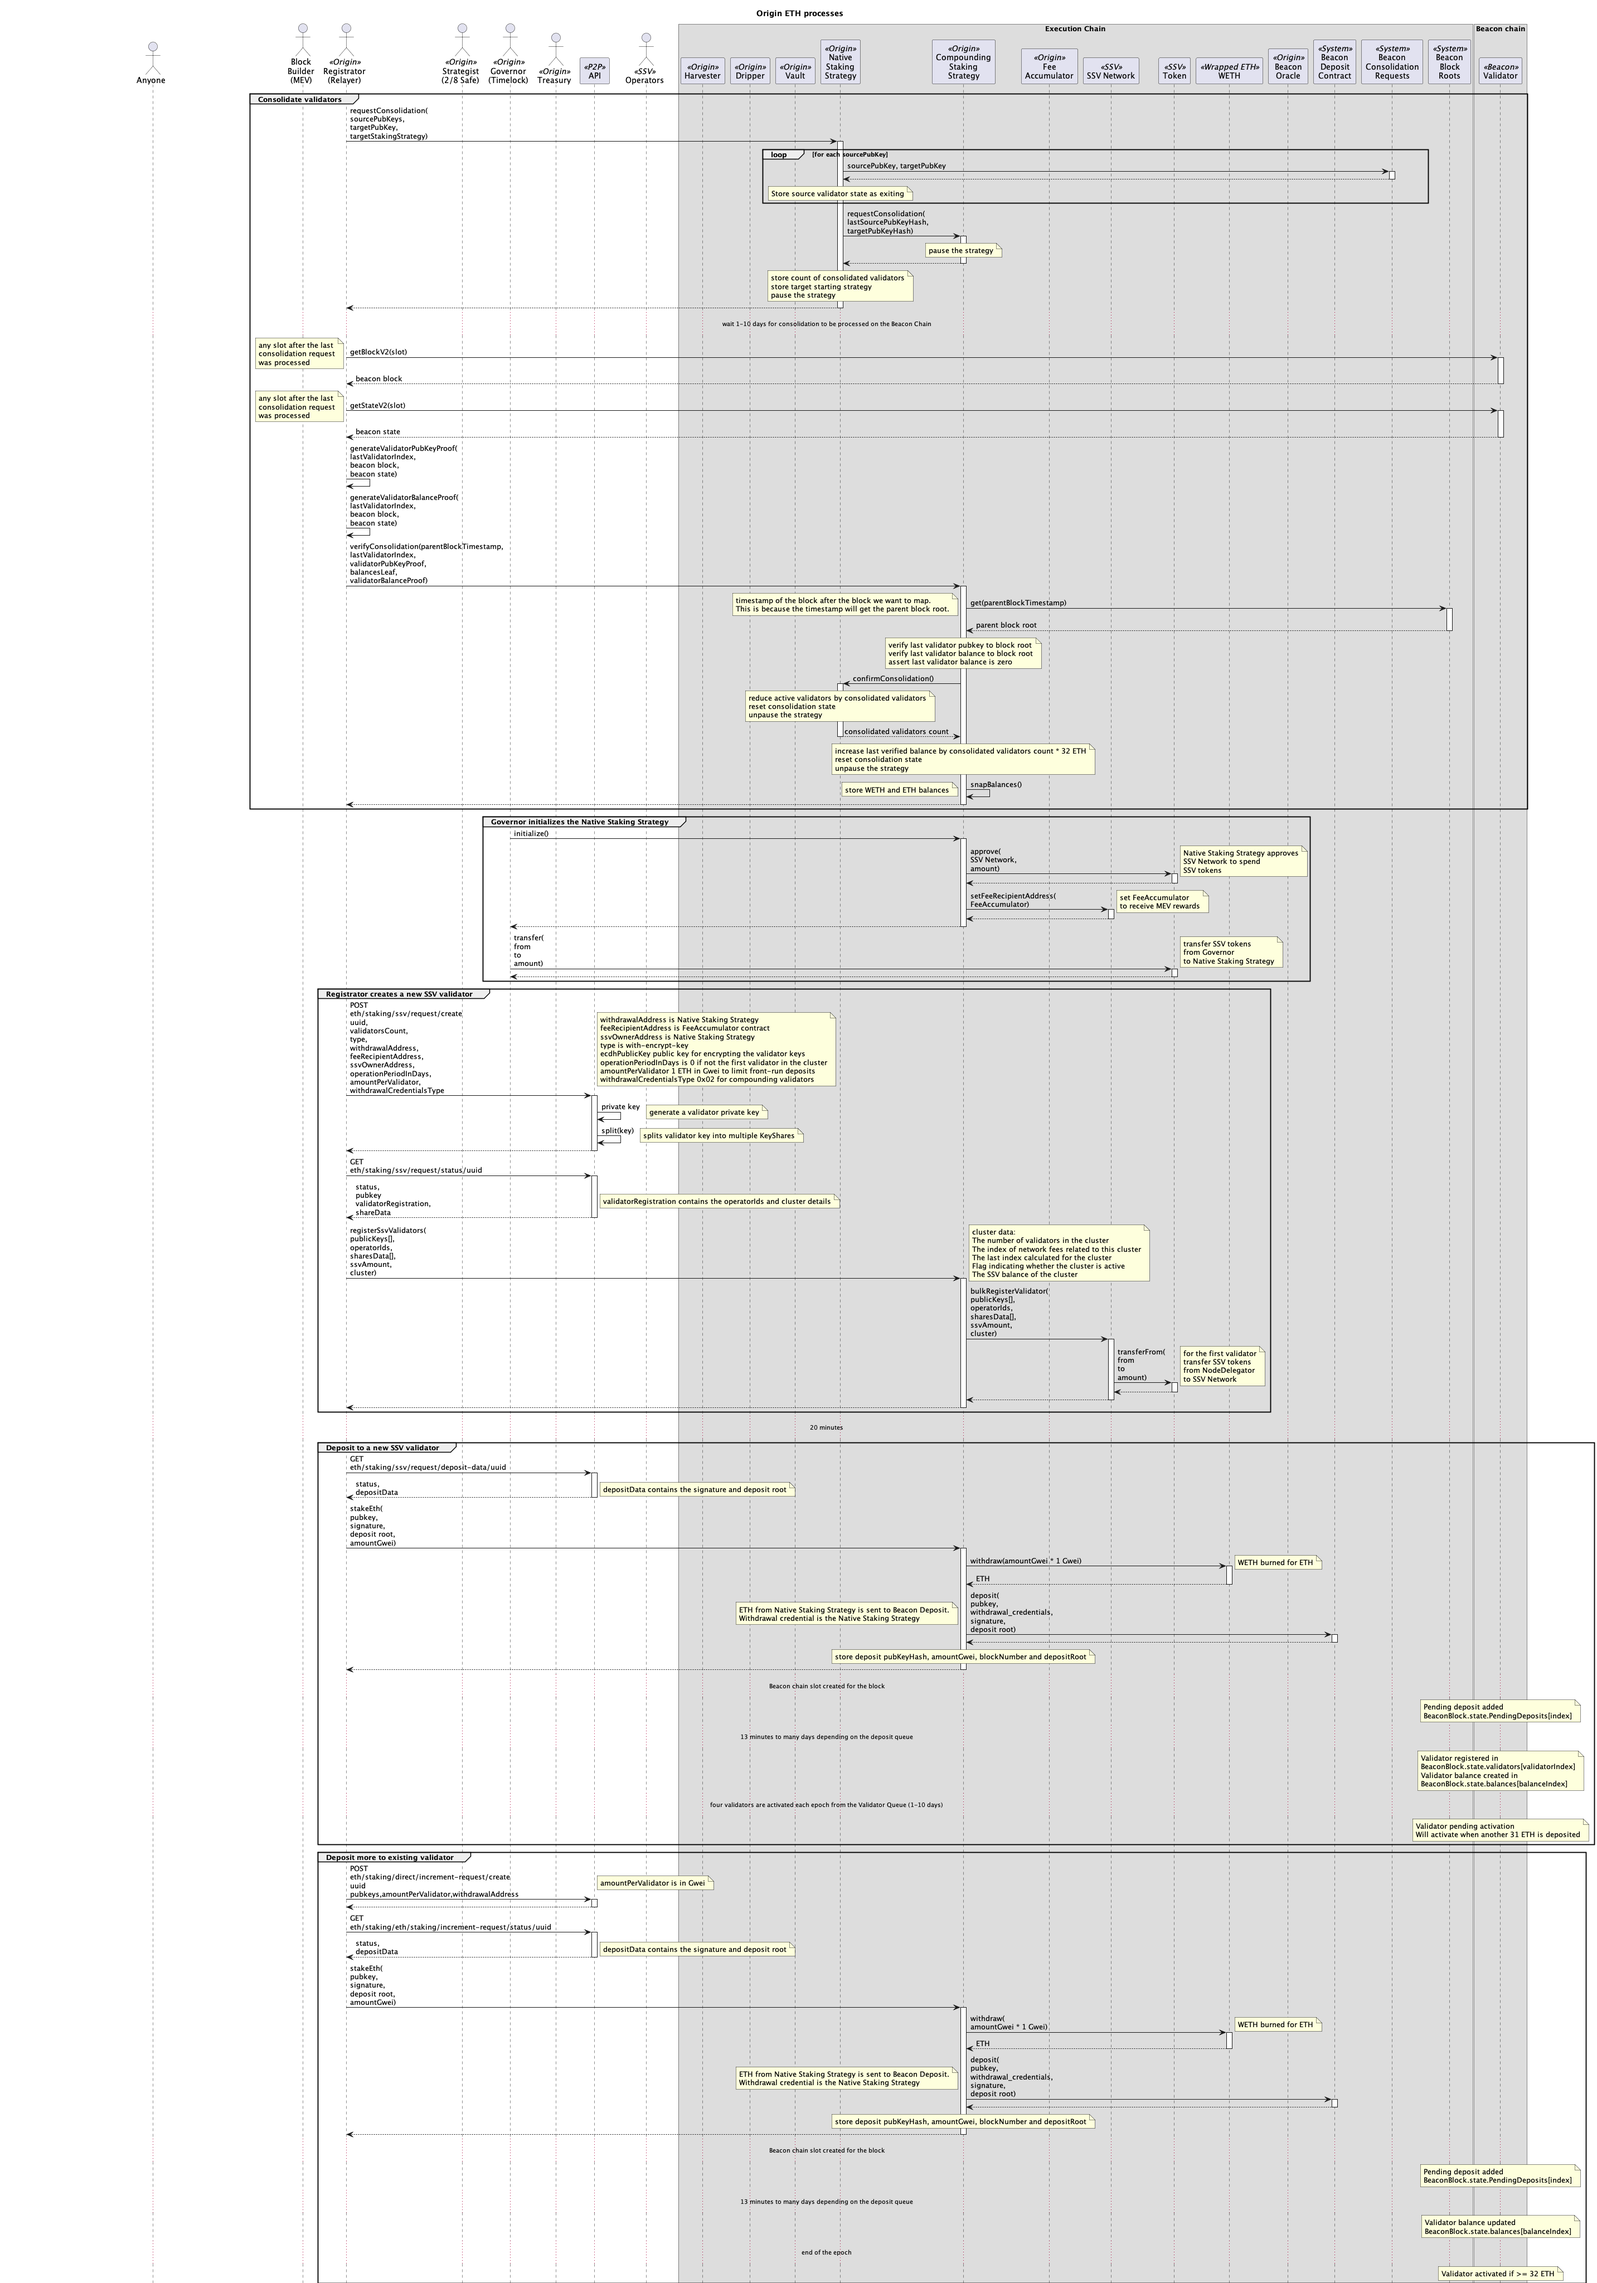
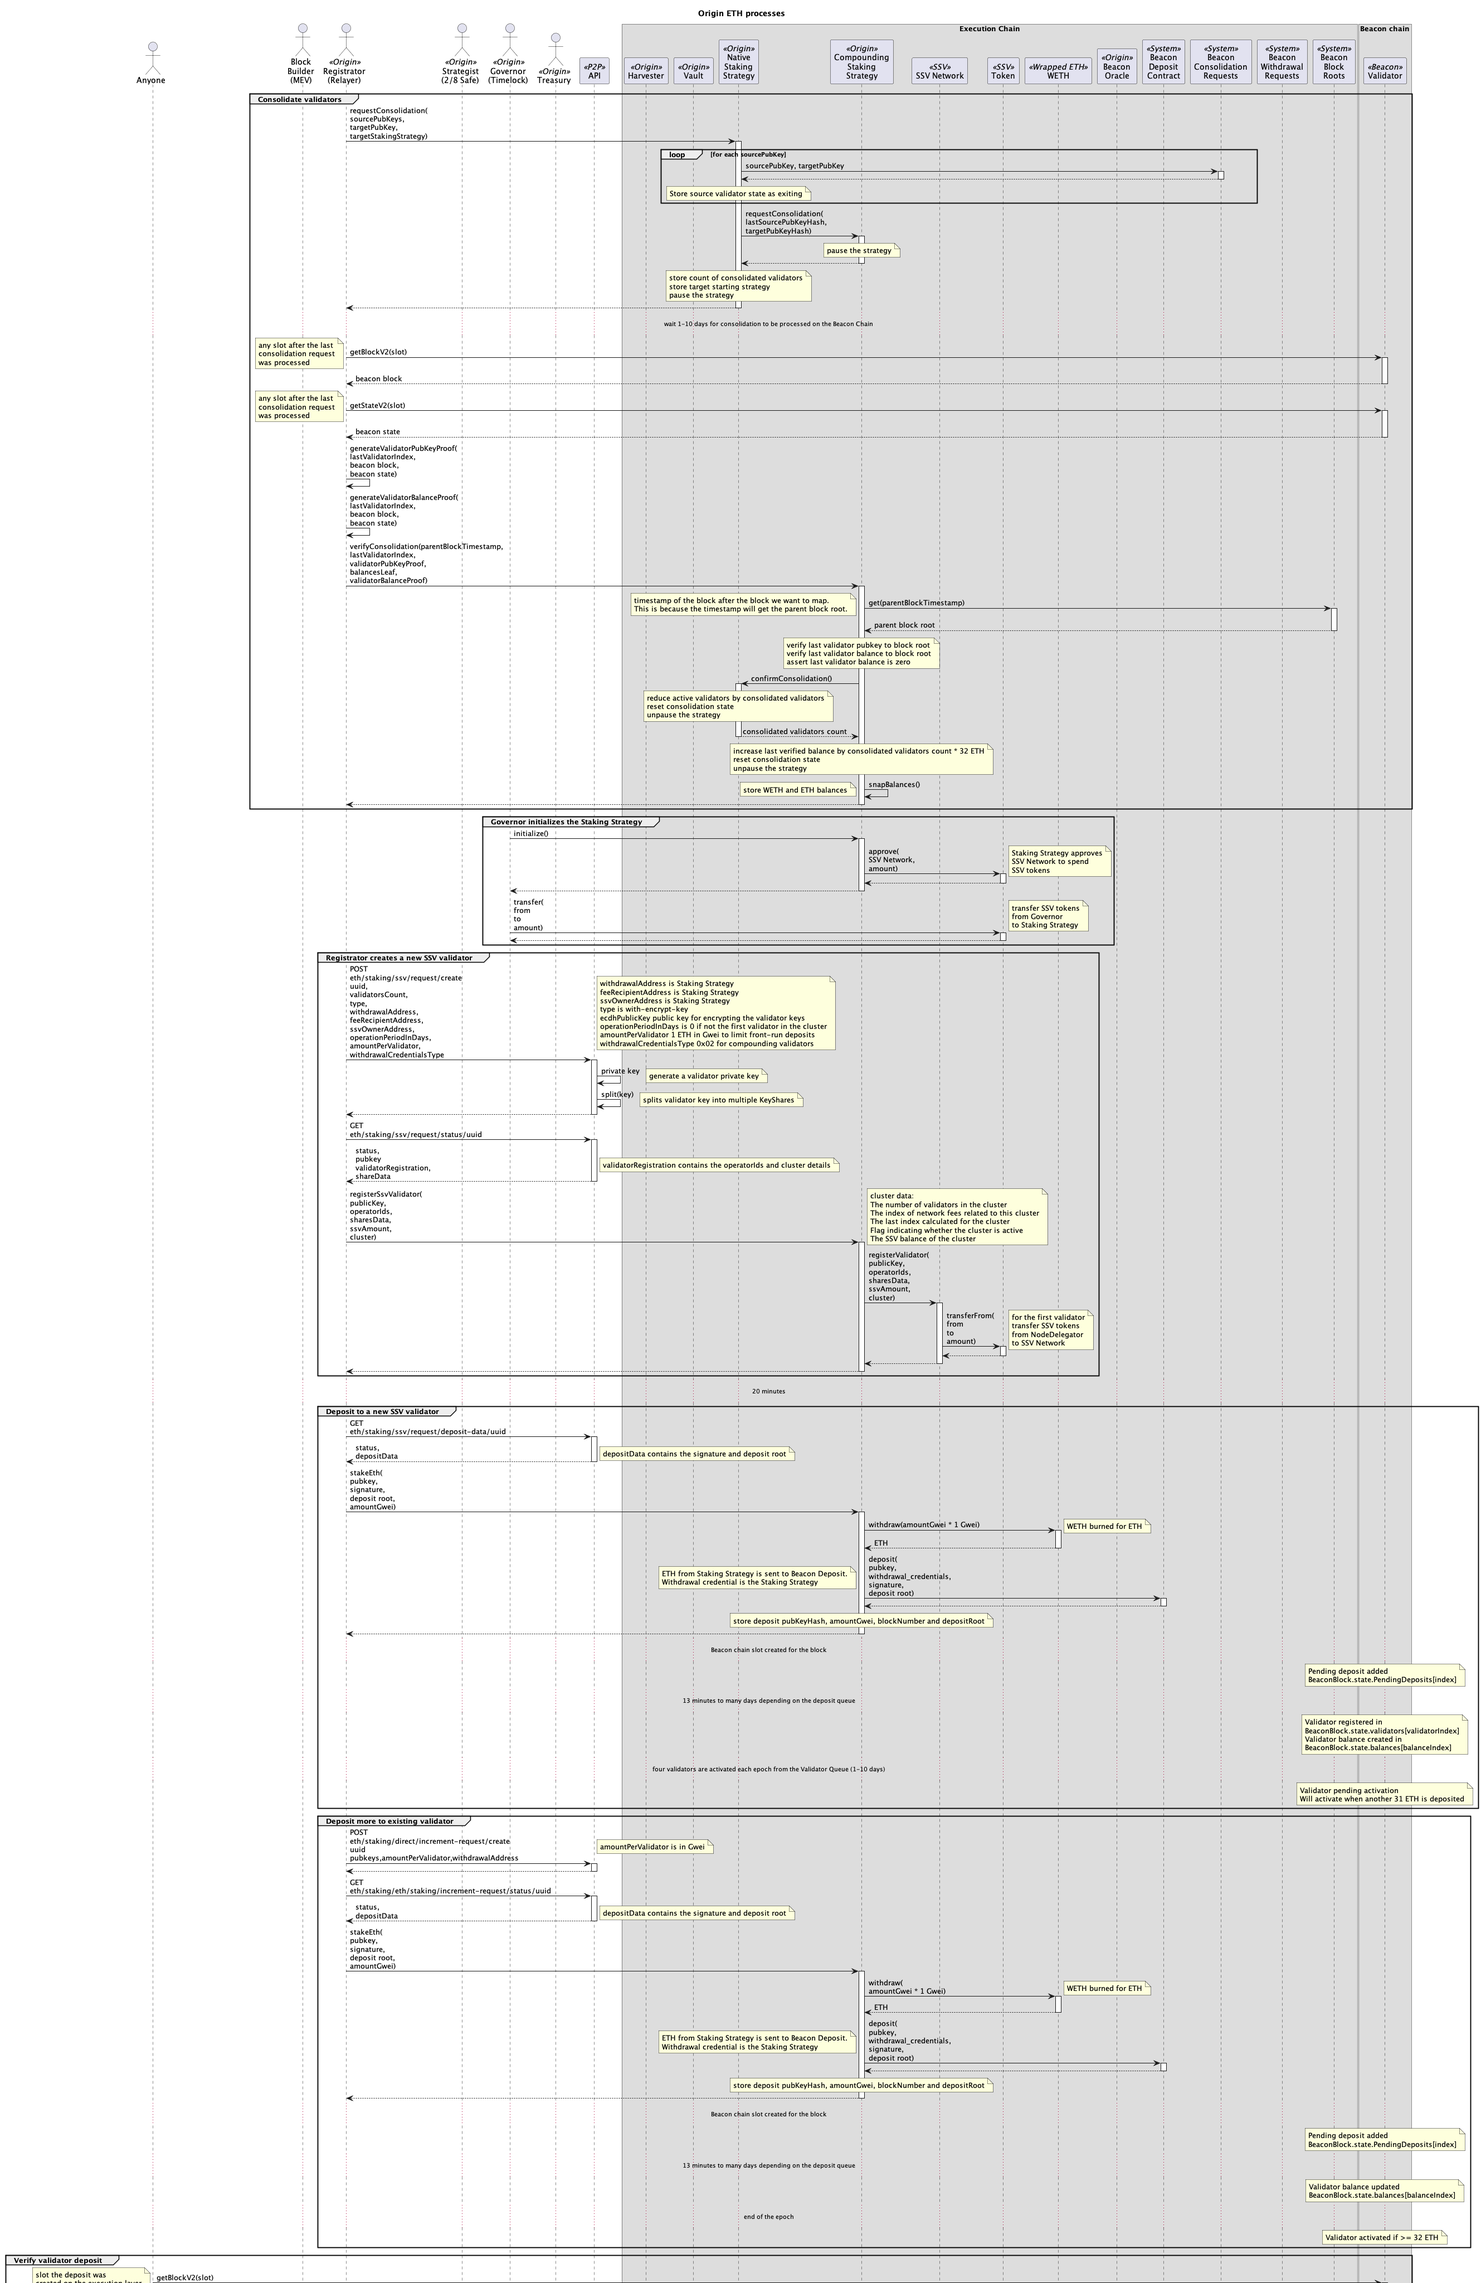
Removed fee accumulator

diff --git a/contracts/deploy/deployActions.js b/contracts/deploy/deployActions.js
@@ -795,15 +795,6 @@ const deployCompoundingStakingSSVStrategy = async () => {
     "CompoundingStakingSSVStrategyProxy"
   );
 
-  log("Deploy FeeAccumulator proxy");
-  const dFeeAccumulatorProxy = await deployWithConfirmation(
-    "CompoundingStakingFeeAccumulatorProxy"
-  );
-  const cFeeAccumulatorProxy = await ethers.getContractAt(
-    "CompoundingStakingFeeAccumulatorProxy",
-    dFeeAccumulatorProxy.address
-  );
-
   const cBeaconOracle = await ethers.getContract("BeaconOracle");
   const cBeaconProofs = await ethers.getContract("BeaconProofs");
 
@@ -815,7 +806,6 @@ const deployCompoundingStakingSSVStrategy = async () => {
       assetAddresses.WETH, // wethAddress
       assetAddresses.SSV, // ssvToken
       assetAddresses.SSVNetwork, // ssvNetwork
-      dFeeAccumulatorProxy.address, // feeAccumulator
       assetAddresses.beaconChainDepositContract, // depositContractMock
       cBeaconOracle.address, // BeaconOracle
       cBeaconProofs.address, // BeaconProofs
@@ -858,27 +848,6 @@ const deployCompoundingStakingSSVStrategy = async () => {
 
   log("Approve spending of the SSV token");
   await withConfirmation(cStrategy.connect(sDeployer).safeApproveAllTokens());
-
-  log("Deploy fee accumulator implementation");
-  const dFeeAccumulator = await deployWithConfirmation("FeeAccumulator", [
-    cCompoundingStakingSSVStrategyProxy.address, // STRATEGY
-  ]);
-  const cFeeAccumulator = await ethers.getContractAt(
-    "FeeAccumulator",
-    dFeeAccumulator.address
-  );
-
-  log("Init fee accumulator proxy");
-  await withConfirmation(
-    cFeeAccumulatorProxy.connect(sDeployer)[
-      // eslint-disable-next-line no-unexpected-multiline
-      "initialize(address,address,bytes)"
-    ](
-      cFeeAccumulator.address, // implementation address
-      addresses.mainnet.Timelock, // Timelock
-      "0x" // do not call any initialize functions
-    )
-  );
 
   return cStrategy;
 };
